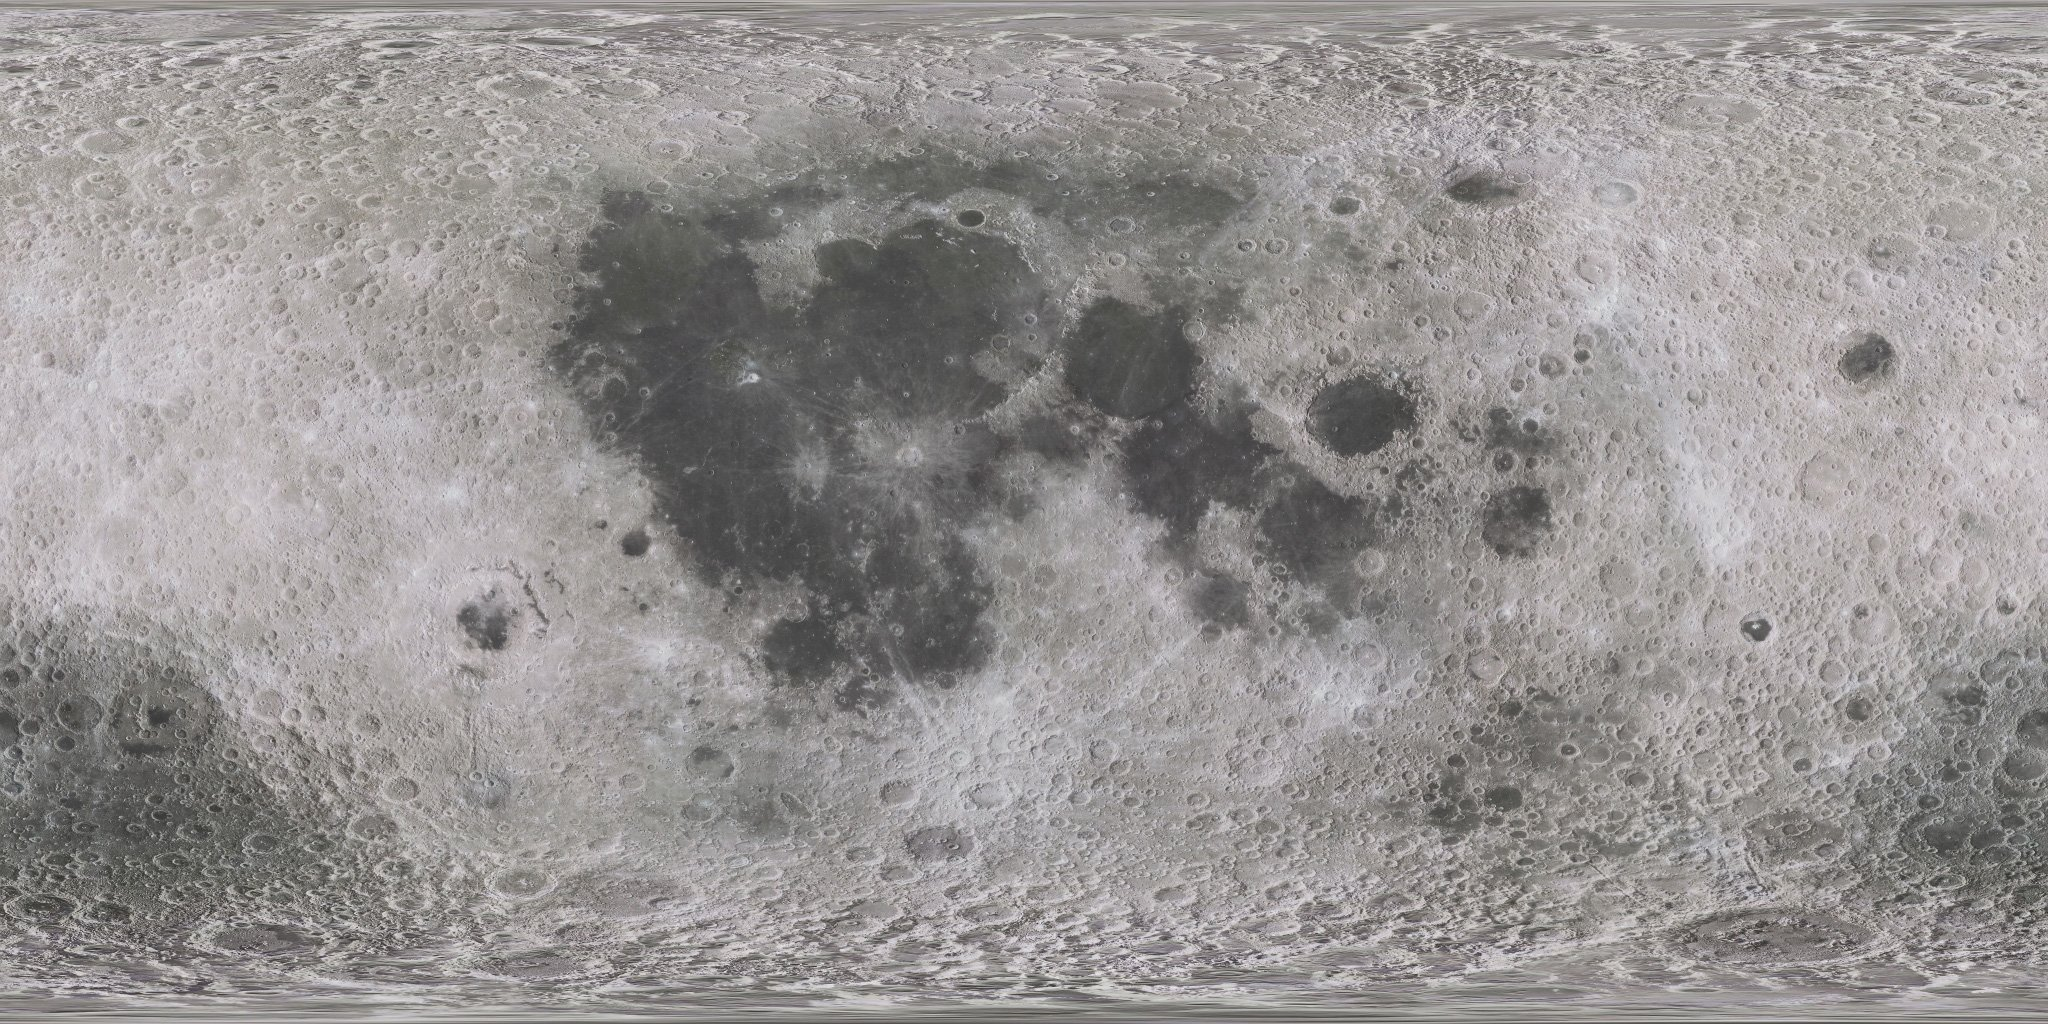
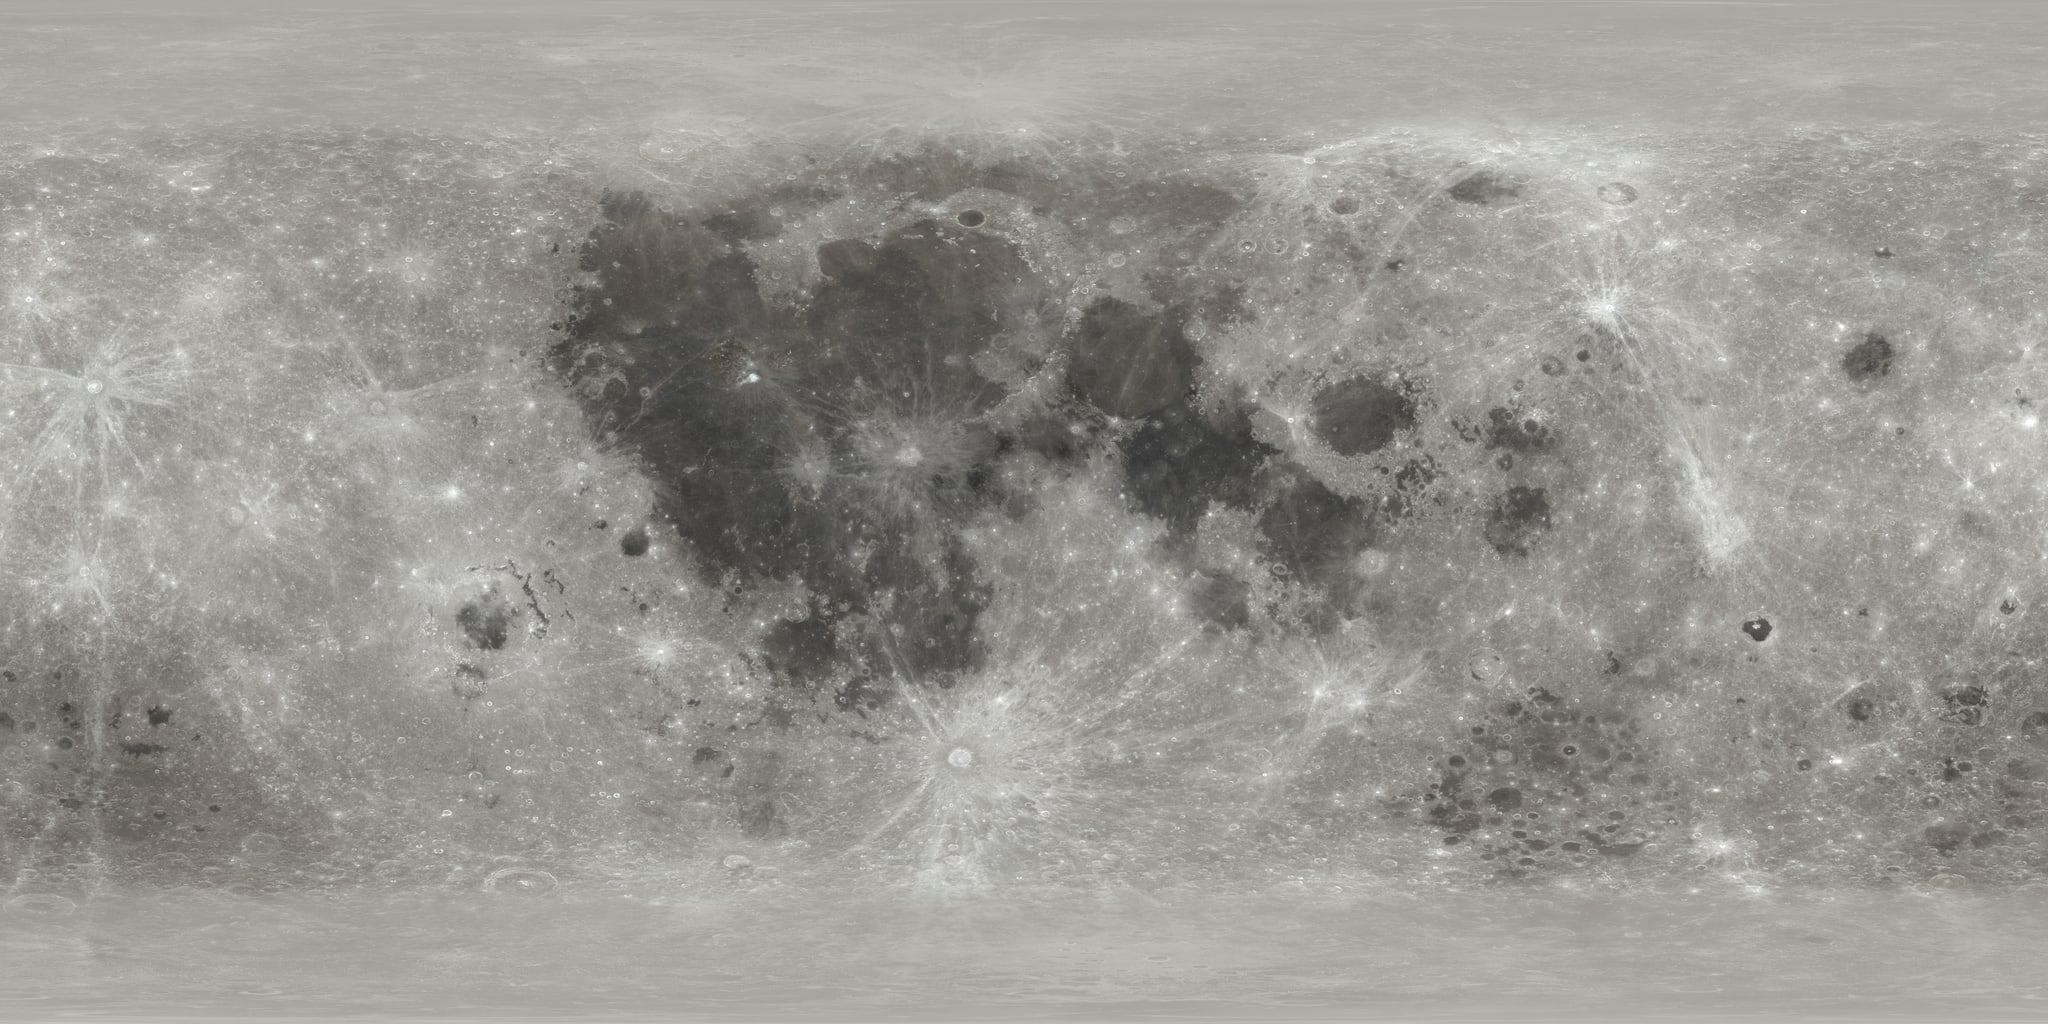
WIP: Luna realista (relieve LOLA, mapa LROC 4K de la NASA, luz cenicienta) para el modo Objeto
Prototipo sin probar; no publicar en main todavía.

Claude-Session: https://claude.ai/code/session_014ZtNLa9smX56CUmD58QWiU

diff --git a/app.js b/app.js
@@ -764,6 +764,36 @@ function planetMaterial(map) {
       }`,
   });
 }
+// Luna realista: relieve real (altimetría LOLA de la NASA) que proyecta sombras junto al terminador,
+// reflectancia lunar (Lommel-Seeliger: el disco no se oscurece hacia el borde, como la Luna real)
+// y «luz cenicienta» (la Tierra ilumina débilmente la parte oscura, más cuanto más fina es la fase).
+function moonMaterial(map) {
+  const bump = loadTex('img/planets/luna_relieve.jpg', false); // datos de altura, no color
+  return new THREE.ShaderMaterial({
+    uniforms: { map: { value: map }, bump: { value: bump }, uLight: { value: new THREE.Vector3(1, 0, 0) }, uTexel: { value: new THREE.Vector2(1 / 2048, 1 / 1024) }, uRelief: { value: 3.2 }, uEarth: { value: 0.03 } },
+    vertexShader: `varying vec2 vUv; varying vec3 vN; varying vec3 vE; varying vec3 vNo; varying vec3 vW;
+      void main(){ vUv = uv; vec3 n = normalize(normal);
+        vec3 e = normalize(cross(vec3(0.0, 1.0, 0.0), n) + vec3(1e-6, 0.0, 0.0)); vec3 no = cross(n, e);
+        mat3 m = mat3(modelMatrix); vN = normalize(m * n); vE = normalize(m * e); vNo = normalize(m * no);
+        vec4 w = modelMatrix * vec4(position, 1.0); vW = w.xyz; gl_Position = projectionMatrix * viewMatrix * w; }`,
+    fragmentShader: `uniform sampler2D map; uniform sampler2D bump; uniform vec3 uLight; uniform vec2 uTexel; uniform float uRelief; uniform float uEarth;
+      varying vec2 vUv; varying vec3 vN; varying vec3 vE; varying vec3 vNo; varying vec3 vW;
+      void main(){
+        vec3 t = texture2D(map, vUv).rgb;
+        float hx = texture2D(bump, vUv + vec2(uTexel.x, 0.0)).r - texture2D(bump, vUv - vec2(uTexel.x, 0.0)).r;
+        float hy = texture2D(bump, vUv + vec2(0.0, uTexel.y)).r - texture2D(bump, vUv - vec2(0.0, uTexel.y)).r;
+        vec3 n0 = normalize(vN);
+        vec3 n = normalize(n0 + uRelief * (hx * vE - hy * vNo));
+        vec3 v = normalize(cameraPosition - vW);
+        float mu0 = max(dot(n, uLight), 0.0), mu = max(dot(n0, v), 0.05);
+        float ls = 2.0 * mu0 / (mu0 + mu);             // Lommel-Seeliger
+        float day = smoothstep(-0.02, 0.06, dot(n0, uLight)); // terminador nítido pero sin dientes de sierra
+        vec3 col = t * (ls * 0.95 * day) + t * vec3(0.55, 0.65, 0.85) * uEarth * (1.0 - day);
+        gl_FragColor = vec4(col, 1.0);
+        #include <colorspace_fragment>
+      }`,
+  });
+}
 function buildBodies() {
   BODIES.forEach(b => {
     const holder = new THREE.Group();            // posición + orientación
@@ -773,7 +803,7 @@ function buildBodies() {
     scaled.add(frame);
     const radius = R.body * Math.tan(b.deg * D2R);
     const map = loadTex(`img/planets/${b.tex}.jpg`);
-    const mat = b.id === 'sun' ? new THREE.MeshBasicMaterial({ map }) : planetMaterial(map);
+    const mat = b.id === 'sun' ? new THREE.MeshBasicMaterial({ map }) : b.id === 'moon' ? moonMaterial(map) : planetMaterial(map);
     const sphere = new THREE.Mesh(new THREE.SphereGeometry(radius, 64, 32), mat);
     sphere.rotation.y = -Math.PI / 2; // longitud 0 hacia el observador
     frame.add(sphere);
@@ -812,6 +842,7 @@ function updateBodies(date, force = false) {
     const sinB = orientToObserver(b.holder, dir, b.pole[0], b.pole[1]);
     b.frame.quaternion.setFromUnitVectors(new THREE.Vector3(0, 1, 0), new THREE.Vector3(0, Math.sqrt(1 - sinB * sinB), sinB));
     if (b.id === 'sun') sunLight.position.copy(dir).multiplyScalar(100);
+    if (b.id === 'moon') { const f = A.Illumination('Moon', date).phase_fraction; b.sphere.material.uniforms.uEarth.value = 0.012 + 0.07 * Math.pow(1 - f, 2); }
   });
 }
 
@@ -2274,6 +2305,10 @@ function frame(now) {
   // Tamaño aparente de los astros: exagerado con poco zoom, real con mucho zoom
   for (const b of BODIES) {
     if (b.id !== 'sun') b.sphere.material.uniforms.uLight.value.copy(b.lightEq).transformDirection(skyGroup.matrix);
+    if (b.id === 'moon' && S.fov < 5 && !b.hiRes) { // al acercarte de verdad, el mapa de 4K de la NASA (se descarga solo entonces)
+      b.hiRes = true;
+      texLoader.load('img/planets/luna_4k.jpg', tex => { tex.colorSpace = THREE.SRGBColorSpace; tex.anisotropy = renderer.capabilities.getMaxAnisotropy(); const u = b.sphere.material.uniforms; const old = u.map.value; u.map.value = tex; old?.dispose?.(); });
+    }
     const k = Math.max(1, Math.pow(S.fov / b.ref, 0.55)); // al ampliar, el disco crece en pantalla hasta su tamaño real
     b.scaled.scale.setScalar(k);
     const discPx = (b.radius * k / R.body) / Math.tan(S.fov * D2R / 2) * innerHeight / 2;
